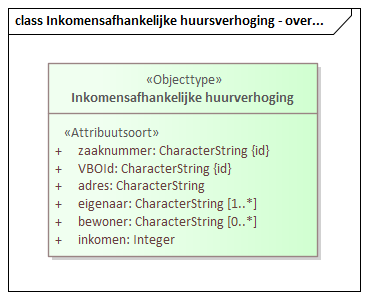
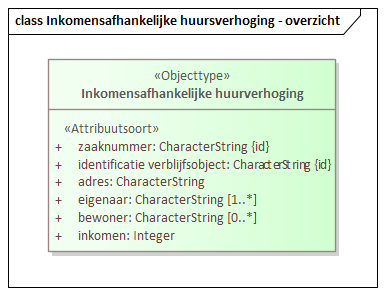
MIMCM-IMXDigilab-1.0-0-20231128-20231128-095252

Changed region(s): [[0.1196, 0.1831, 0.8967, 0.8847], [0.0, 0.0, 0.9864, 1.0]]

diff --git a/data/imx-digilab-cat.respec.html b/data/imx-digilab-cat.respec.html
@@ -1,11 +1,11 @@
 
 <!DOCTYPE HTML><section id="cat" class="normative">
    <h2>Gegevensdefinitie</h2>
-   <!--MIMCM-IMXDigilab-1.0-0-20231128-20231128-095158 imvertor 2.0.0--><a class="anchor" id="global_package_InkomensafhankelijkeHuursverhoging"></a><section id="global_package_InkomensafhankelijkeHuursverhoging">
+   <!--MIMCM-IMXDigilab-1.0-0-20231128-20231128-095252 imvertor 2.0.0--><a class="anchor" id="global_package_InkomensafhankelijkeHuursverhoging"></a><section id="global_package_InkomensafhankelijkeHuursverhoging">
       <h3>Domein   Inkomensafhankelijke huursverhoging</h3>
       <section id="EAID_E1D40597_044B_4576_993B_D118A88B1844">
          <h4>   Inkomensafhankelijke huursverhoging - overzicht</h4>
-         <div class="imageinfo overview"><img src="data/Images/EAID_E1D40597_044B_4576_993B_D118A88B1844.png" usemap="#imagemap-EAID_E1D40597_044B_4576_993B_D118A88B1844" alt="Diagram &#xA;                        &#xA;                     "><map name="imagemap-EAID_E1D40597_044B_4576_993B_D118A88B1844"><area shape="rect" alt="Inkomensafhankelijke huurverhoging" coords="48,63,318,257" href="#graph_EAID_CAFE083C_10E4_40e5_B29A_1193A786CC38"></map><p><b>Inkomensafhankelijke huursverhoging - overzicht</b></p>
+         <div class="imageinfo overview"><img src="data/Images/EAID_E1D40597_044B_4576_993B_D118A88B1844.png" usemap="#imagemap-EAID_E1D40597_044B_4576_993B_D118A88B1844" alt="Diagram &#xA;                        &#xA;                     "><map name="imagemap-EAID_E1D40597_044B_4576_993B_D118A88B1844"><area shape="rect" alt="Inkomensafhankelijke huurverhoging" coords="48,59,336,252" href="#graph_EAID_CAFE083C_10E4_40e5_B29A_1193A786CC38"></map><p><b>Inkomensafhankelijke huursverhoging - overzicht</b></p>
          </div>
       </section>
       <section id="">
@@ -54,7 +54,7 @@
                   </tr>
                   <tr>
                      <td>
-                        <a class="link" href="#detail_attribute_InkomensafhankelijkeHuursverhoging_InkomensafhankelijkeHuurverhoging_vBOId">VBOId</a>
+                        <a class="link" href="#detail_attribute_InkomensafhankelijkeHuursverhoging_InkomensafhankelijkeHuurverhoging_identificatieVerblijfsobject">identificatie verblijfsobject</a>
                         </td>
                      <td>
                         
@@ -171,8 +171,8 @@
                      </tbody>
                   </table>
                   </div>
-               <a class="anchor" id="detail_attribute_InkomensafhankelijkeHuursverhoging_InkomensafhankelijkeHuurverhoging_vBOId"></a><div class="deepheader" id="detail_attribute_InkomensafhankelijkeHuursverhoging_InkomensafhankelijkeHuurverhoging_vBOId">
-                  <h7>Attribuutsoort details  <a href="#global_class_InkomensafhankelijkeHuursverhoging_InkomensafhankelijkeHuurverhoging">Inkomensafhankelijke huurverhoging</a> VBOId</h7>
+               <a class="anchor" id="detail_attribute_InkomensafhankelijkeHuursverhoging_InkomensafhankelijkeHuurverhoging_identificatieVerblijfsobject"></a><div class="deepheader" id="detail_attribute_InkomensafhankelijkeHuursverhoging_InkomensafhankelijkeHuurverhoging_identificatieVerblijfsobject">
+                  <h7>Attribuutsoort details  <a href="#global_class_InkomensafhankelijkeHuursverhoging_InkomensafhankelijkeHuurverhoging">Inkomensafhankelijke huurverhoging</a> identificatie verblijfsobject</h7>
                   
                   <table style="width: 100%;">
                      <colgroup style="width: 30%;"></colgroup>
@@ -180,7 +180,7 @@
                      <tbody>
                         <tr>
                            <th>Naam</th>
-                           <td>VBOId</td>
+                           <td>identificatie verblijfsobject</td>
                         </tr>
                         <tr>
                            <th>Definitie</th>
